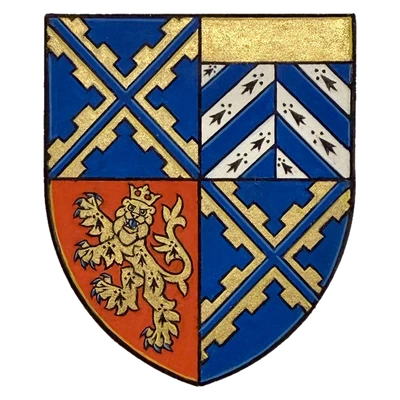
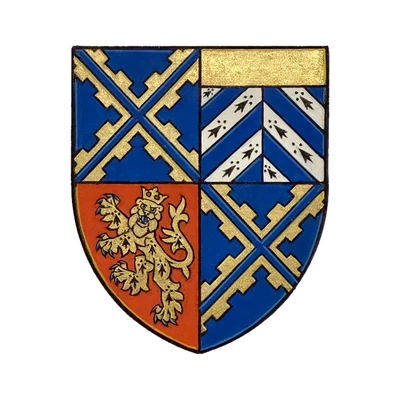
Armorial: John Allen-Petrie first card; one-line name; permanent 'of the College of Arms'; shrink shield to match
- Move the John Allen-Petrie OBE (Windsor Herald) officer card to first position;
  Balvaird/Pittenweem/Drum/Kirkbuddo shift down one
- Officer name on one line (whitespace-nowrap, text-lg)
- Add permanent flourish-size sub-line 'of the College of Arms' (new optional
  'sub' field) under the office
- Reprocess petrie.webp so the shield fills ~78% of the canvas (matching
  Kirkbuddo / Kinfauns / Moncrieffe) rather than 95%

diff --git a/src/app/armorial/page.tsx b/src/app/armorial/page.tsx
@@ -112,10 +112,17 @@ export default function SupportersPage() {
                   <figcaption className="relative mt-6 w-full">
                     {b.officer ? (
                       <>
-                        <span className="block font-display text-2xl leading-tight text-navy">{b.name}</span>
+                        <span className="block whitespace-nowrap font-display text-lg leading-tight text-navy">
+                          {b.name}
+                        </span>
                         {b.note && (
                           <span className="mt-2 block font-serif text-lg italic leading-snug text-gold-deep">
                             {b.note}
+                          </span>
+                        )}
+                        {b.sub && (
+                          <span className="mt-1 block whitespace-nowrap font-display text-[0.88rem] italic leading-none tracking-wide text-gold-deep">
+                            {b.sub}
                           </span>
                         )}
                       </>

diff --git a/src/lib/supporters.ts b/src/lib/supporters.ts
@@ -8,11 +8,14 @@ export type Barony = {
   pageOnly?: boolean;
   /** a non-barony supporter (e.g. an officer of arms) — caption shows name + note only */
   officer?: boolean;
+  /** small permanent sub-line under the note (e.g. an institution) */
+  sub?: string;
   /** profile on roll.baronage.com */
   roll?: string;
 };
 
 export const baronies: Barony[] = [
+  { dignity: "Herald", name: "John Allen-Petrie OBE", note: "Windsor Herald", sub: "of the College of Arms", officer: true, img: "/arms/petrie.webp", pageOnly: true },
   { dignity: "Baron", name: "Balvaird", roll: "https://roll.baronage.com/baron/brady-balvaird", img: "/arms/balvaird.webp" },
   { dignity: "Lord Baron", name: "Pittenweem", roll: "https://roll.baronage.com/claes-zangeberg.html", img: "/arms/pittenweem.webp" },
   {
@@ -23,7 +26,6 @@ export const baronies: Barony[] = [
     note: "Chief of his Name",
   },
   { dignity: "Baron", name: "Kirkbuddo", roll: "https://roll.baronage.com/baron/jean-yves-de-la-sabliere", img: "/arms/kirkbuddo.webp" },
-  { dignity: "Herald", name: "John Allen-Petrie OBE", note: "Windsor Herald", officer: true, img: "/arms/petrie.webp", pageOnly: true },
   { dignity: "Baron", name: "Crawfordjohn", img: "/arms/crawfordjohn.webp", pageOnly: true },
   { dignity: "Baron", name: "Haliburton", img: "/arms/haliburton.webp", pageOnly: true },
   { dignity: "Baroness", name: "Redcastle", img: "/arms/redcastle.webp", pageOnly: true },